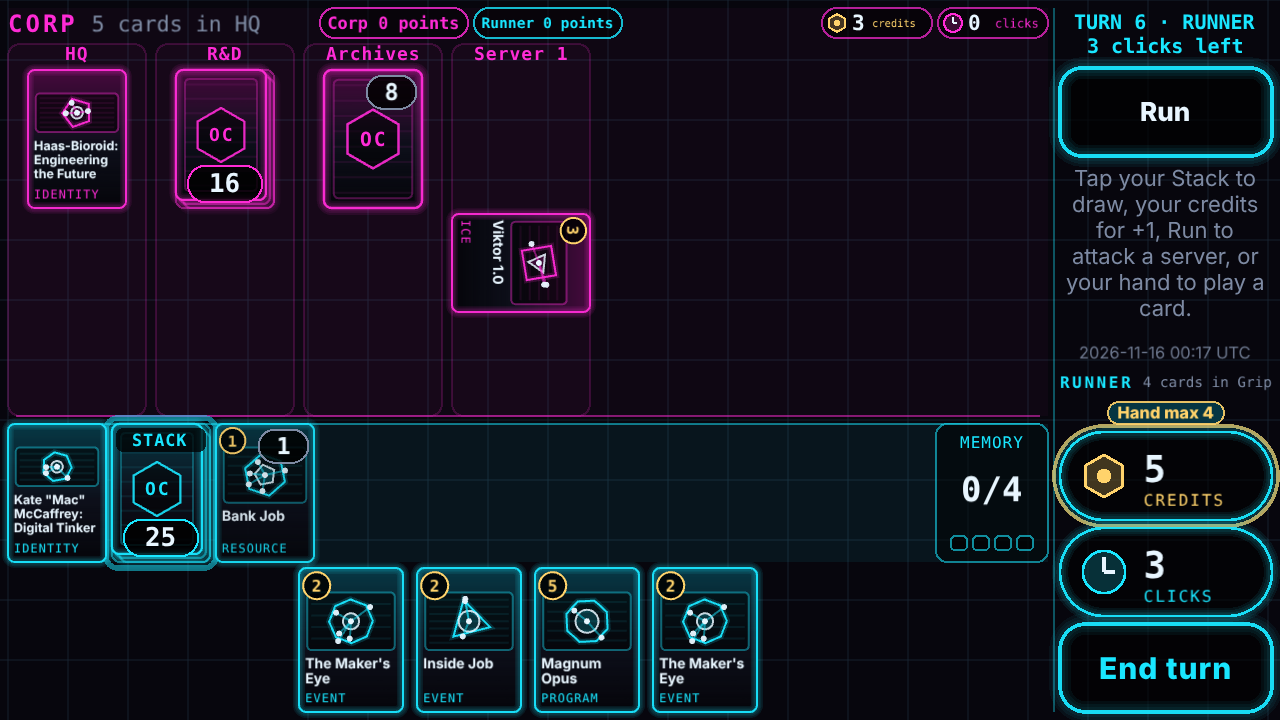
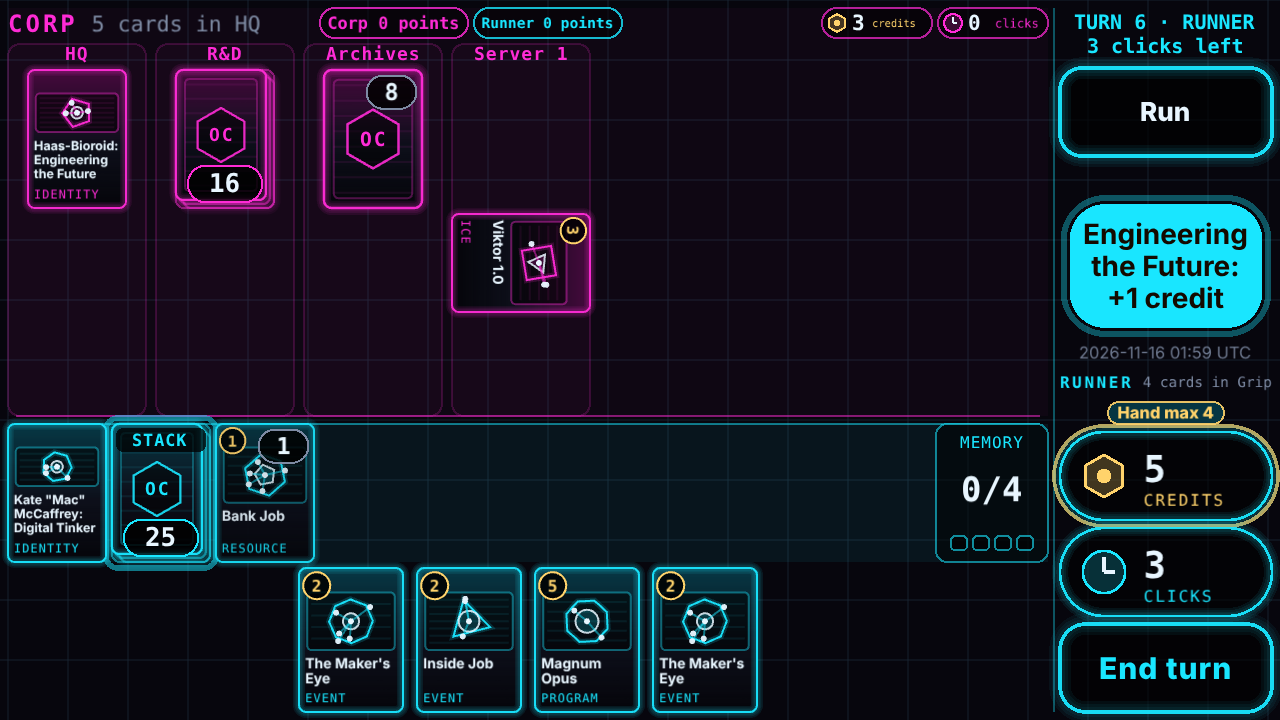
QA-S8-2/QA-S8-3 (client): 'Break all: 4 + 3 = 7 credits' in the run panel; run toasts use End turn's slot sideways (never over the run panel)
- Run panel line from RunView.breakAll (no client price math); sideways the
  panel also takes the build date's line during a run.
- Sideways during a run End turn (never usable) is hidden; toasts sit in its
  slot; a toast showing when a run starts/ends moves.
- Specs: s08-cards (Heimdall/Corroder total, Pipeline total, panel font
  floors, no toast over panel), s03-encounter and QA's qa-sprint03 exact
  lines include the total (logged in DECISIONS).

Claude-Session: https://claude.ai/code/session_01H2afAUPhzKLxcFBqH6rixf

Changed region(s): [[0.8125, 0.2444, 1.0, 0.4889]]

diff --git a/apps/client/src/board.ts b/apps/client/src/board.ts
@@ -294,7 +294,7 @@ export class Board {
   private runPicking = false;
   /** Installed card picked for its choices (Corp agenda: Advance / Score). */
   private pickedInstalled: string | null = null;
-  private hint: { text: string; root: Container; box: Box } | null = null;
+  private hint: { text: string; root: Container; box: Box; kind: 'hint' | 'notice'; slot: string } | null = null;
   private zoom: {
     cardId: string | null;
     root: Container;
@@ -1583,6 +1583,8 @@ export class Board {
     help.position.set(hb.x + hb.width / 2, hb.y);
     fitText(help, hb.width, hb.height);
     this.syncHelp();
+    // QA-S8-3: a toast shown before a run started (or ended) moves to the slot for now.
+    if (this.hint && this.hint.slot !== JSON.stringify(this.hintSlot(layout))) this.showHint(this.hint.text, this.hint.kind);
 
     const button = gen.button;
     if (view.result) {
@@ -1590,6 +1592,10 @@ export class Board {
     } else if (pending > 0) {
       button.root.visible = true;
       button.set('confirm', this.marked.size === pending, this.marked.size === pending, this.ui);
+    } else if (this.runNoticeSlot(layout, view)) {
+      // QA-S8-3: sideways, during a run End turn can't be used; its slot shows the run's notes
+      // (so they never cover the run panel in the rail).
+      button.root.visible = false;
     } else {
       const canEnd = view.legalActions.some((a) => a.type === 'end_turn');
       button.root.visible = true;
@@ -2585,7 +2591,7 @@ export class Board {
     const layout = this.layout;
     if (!layout) return;
     const s = Math.min(layout.scale, 1.2);
-    const area = layout.hintArea;
+    const area = this.hintSlot(layout);
     const root = new Container();
     const padX = Math.max(6, Math.round(8 * s));
     const padY = Math.max(5, Math.round(6 * s));
@@ -2615,7 +2621,7 @@ export class Board {
     // The slot is sized so hints wrap at full size; shrink only if one ever does not fit.
     const fit = Math.min(1, (area.width - 2 * ring) / w, (area.height - 2 * ring) / h);
     root.scale.set(fit);
-    const hint = { text, root, box: { x: 0, y: 0, width: w * fit, height: h * fit } };
+    const hint = { text, root, box: { x: 0, y: 0, width: w * fit, height: h * fit }, kind, slot: JSON.stringify(area) };
     this.positionHint(hint);
     root.alpha = 0;
     this.hintLayer.addChild(root);
@@ -2653,7 +2659,8 @@ export class Board {
     const help = this.gen?.subHelp;
     if (help) help.renderable = !(this.hint && this.layout?.mode === 'landscape');
     // In the column the build date shares the hint's slot: hide it while a hint shows.
-    this.buildText.visible = !(this.hint && this.layout?.mode === 'portrait');
+    // Sideways during a run, the run panel uses the build date's line (QA-S8-2).
+    this.buildText.visible = !(this.hint && this.layout?.mode === 'portrait') && !(this.layout?.mode === 'landscape' && this.view?.run);
   }
 
   /** Where the build date's text is drawn (CSS px). */
@@ -2665,6 +2672,8 @@ export class Board {
   /** The build date: the date and time centered in the narrow rail (sideways), "Built …" in the column's hint slot. */
   private placeBuildLabel(layout: BoardLayout): void {
     const t = this.buildText;
+    // QA-S8-2: sideways, the run panel uses the build date's line while a run is on.
+    t.visible = !(layout.mode === 'landscape' && this.view?.run);
     const when = this.callbacks.buildTime;
     const rail = layout.mode === 'landscape';
     const text = rail ? when : `Built ${when}`;
@@ -2676,12 +2685,24 @@ export class Board {
     t.position.set(rail ? b.x + b.width / 2 : b.x, b.y + b.height / 2);
   }
 
+  /** QA-S8-3: sideways during a run, the End turn slot (End turn is hidden then); else null. */
+  private runNoticeSlot(layout: BoardLayout, view: PlayerView | null): Box | null {
+    return layout.mode === 'landscape' && view?.run && !view.result ? layout.endTurn : null;
+  }
+
+  /** Where the toast goes: the hint slot, or (sideways, during a run) End turn's slot, clear of the run panel. */
+  private hintSlot(layout: BoardLayout): Box {
+    return this.runNoticeSlot(layout, this.view) ?? layout.hintArea;
+  }
+
   private positionHint(hint: { root: Container; box: Box }): void {
-    const a = this.layout?.hintArea;
-    if (!a) return;
+    const layout = this.layout;
+    if (!layout) return;
+    const a = this.hintSlot(layout);
+    const run = this.runNoticeSlot(layout, this.view) !== null;
     const cx = a.x + a.width / 2;
     // Sideways the slot is tall (the help text's room): sit at its bottom, by the viewer's name.
-    const cy = this.layout?.mode === 'landscape' ? a.y + a.height - 3 - hint.box.height / 2 : a.y + a.height / 2;
+    const cy = layout.mode === 'landscape' && !run ? a.y + a.height - 3 - hint.box.height / 2 : a.y + a.height / 2;
     hint.root.position.set(cx, cy);
     hint.box.x = cx - hint.box.width / 2;
     hint.box.y = cy - hint.box.height / 2;

diff --git a/apps/client/e2e/s08-cards.spec.ts b/apps/client/e2e/s08-cards.spec.ts
@@ -11,6 +11,7 @@ import { type Page, expect, test } from '@playwright/test';
 import type { InstalledSnapshot, LayoutSnapshot } from '../src/hook-types';
 import {
   dismissReport,
+  overlaps,
   expectCleanLayout,
   getView,
   layout,
@@ -217,7 +218,7 @@ test.describe('S-08-4 new breakers and events', () => {
     expect(JSON.stringify(await getView(page))).toBe(before);
   });
 
-  test('Heimdall with Corroder: it pumps and breaks one subroutine at a time', async ({ page }) => {
+  test('Heimdall with Corroder: it pumps and breaks one subroutine at a time; the panel shows the total', async ({ page }) => {
     await core(page);
     await toStep(page, SEED, 'heimdall_corroder_encounter');
     const l = await layout(page);
@@ -225,6 +226,14 @@ test.describe('S-08-4 new breakers and events', () => {
     expect(l.run!.buttons.some((b) => b.role === 'multi')).toBe(false);
     expect(runButtonOf(l, /\+\d strength/).label).toMatch(/credit/);
     expectBigButtons(l);
+    // QA-S8-2 (S-08-3 AC3): the panel adds the price up: +4 strength and 3 breaks = 7 credits.
+    expect(l.run!.lines).toContain('Break all: 4 + 3 = 7 credits');
+    // Still readable with the extra line (3 subroutines; the panel also takes the build date's line during a run).
+    const floor: Record<string, number> = { desktop: 12, phone: 10, 'phone-small': 8 };
+    expect(l.run!.infoFontPx).toBeGreaterThanOrEqual(floor[test.info().project.name] ?? 10);
+    // QA-S8-3: no toast over the run panel.
+    if (l.hint) expect(overlaps(l.hint.box, l.run!.infoBox), 'toast over the run panel').toBe(false);
+    await shot(page, 's08-3-heimdall-corroder-break-all-7');
   });
 
   test('Pipeline on Neural Katana: pump and break', async ({ page }) => {
@@ -232,6 +241,8 @@ test.describe('S-08-4 new breakers and events', () => {
     await toStep(page, SEED, 'pipeline_katana_encounter');
     let l = await layout(page);
     expect(l.run!.stepLabel).toBe('Encounter: Neural Katana');
+    // The total comes from the engine's plan (Pipeline: 2 + 2 to reach 3, then 1).
+    expect(l.run!.lines).toContain('Break all: 4 + 1 = 5 credits');
     for (let i = 0; i < 6; i++) {
       const brk = l.run!.buttons.find((b) => /Break "/.test(b.label));
       if (brk?.lit) break;

diff --git a/apps/client/test/s08-text.test.ts b/apps/client/test/s08-text.test.ts
@@ -3,7 +3,7 @@
 import type { CardOption, ChoiceView, GameEvent } from '@overclock/engine';
 import { describe, expect, it } from 'vitest';
 import { choiceHint } from '../src/hints';
-import { choiceOptionLabel, choiceStepLabel, iceReport, installNotices, isRunChoice, letFireLabel, outcomeText, shortName, turnStartNotices } from '../src/runText';
+import { breakAllLines, choiceOptionLabel, choiceStepLabel, iceReport, installNotices, isRunChoice, letFireLabel, outcomeText, shortName, turnStartNotices } from '../src/runText';
 import { handMaxText } from '../src/terms';
 
 const opt = (action: CardOption['action'], cost = 0, reject: CardOption['reject'] = null): CardOption => ({ action, cost, reject });
@@ -96,3 +96,23 @@ describe('S-08-7 Rototurret', () => {
   });
 });
 
+describe('QA-S8-2 break-all price', () => {
+  const base = { server: 'hq', position: 0, step: 'encounter', waitingOn: 'runner', iceUid: 'i2', ice: null, breakerStrength: {}, access: null, extraAccess: 0, bypassPending: false, options: [], tempCredits: 0, letFire: null } as const;
+  it('one breaker: the sum written out; none: nothing; several: one named line each', () => {
+    expect(breakAllLines({ ...base, breakAll: [{ uid: 'i1', credits: 7, strengthCredits: 4, breakCredits: 3 }] }, { i1: 'r04' })).toEqual(['Break all: 4 + 3 = 7 credits']);
+    expect(breakAllLines({ ...base, breakAll: [{ uid: 'i1', credits: 1, strengthCredits: 0, breakCredits: 1 }] }, { i1: 'r04' })).toEqual(['Break all: 1 credit']);
+    expect(breakAllLines({ ...base, breakAll: [] }, {})).toEqual([]);
+    expect(
+      breakAllLines(
+        {
+          ...base,
+          breakAll: [
+            { uid: 'i1', credits: 7, strengthCredits: 4, breakCredits: 3 },
+            { uid: 'i3', credits: 7, strengthCredits: 3, breakCredits: 4 },
+          ],
+        },
+        { i1: 'r04', i3: 'r17' },
+      ),
+    ).toEqual(['Corroder, all: 4 + 3 = 7 credits', 'Battering Ram, all: 3 + 4 = 7 credits']);
+  });
+});

diff --git a/apps/client/src/runText.ts b/apps/client/src/runText.ts
@@ -177,6 +177,19 @@ export function stepLabel(run: RunView, deciding: Side): string {
   }
 }
 
+/**
+ * QA-S8-2: the whole price of breaking the ICE, from the engine's `breakAll`: "Break all:
+ * 4 + 3 = 7 credits" (strength first, then the breaks). Several breakers: one line each, named.
+ * Nothing when no breaker can break it all with the credits there are.
+ */
+export function breakAllLines(run: RunView, rig: RigIds): string[] {
+  const all = run.breakAll ?? [];
+  // One short line each, the sum written out: "Break all: 4 + 3 = 7 credits".
+  const sum = (b: (typeof all)[number]) => (b.strengthCredits > 0 ? `${b.strengthCredits} + ${b.breakCredits} = ${plural(b.credits, 'credit', 'credits')}` : plural(b.credits, 'credit', 'credits'));
+  if (all.length === 1) return [`Break all: ${sum(all[0]!)}`];
+  return all.map((b) => `${nameOf(rig[b.uid] ?? null, 'Breaker')}, all: ${sum(b)}`);
+}
+
 /** Info lines under the step line: ICE strength, the breakers that can act and their strength, the next stop. */
 export function infoLines(run: RunView, rig: RigIds): string[] {
   const lines: string[] = [];
@@ -189,6 +202,7 @@ export function infoLines(run: RunView, rig: RigIds): string[] {
       if (s !== undefined) lines.push(`${nameOf(rig[uid] ?? null, 'Breaker')} ${s}`);
     }
     if (run.options.length > 0 && breakersIn(run.options).length === 0) lines.push('No breaker for this ICE');
+    lines.push(...breakAllLines(run, rig));
   }
   if (run.step === 'continue') lines.push(run.position > 0 ? `Next: ${run.position} more ${TERMS.ice}` : `Next: ${serverLabel(run.server)}`);
   if (run.bypassPending && run.step !== 'access') lines.push('Inside Job: next ICE bypassed');

diff --git a/apps/client/e2e/s03-encounter.spec.ts b/apps/client/e2e/s03-encounter.spec.ts
@@ -14,7 +14,7 @@ test.describe('S-03-4 break ICE with icebreakers', () => {
     const l = await layout(page);
     expect(l.run).toMatchObject({ step: 'encounter', deciding: 'runner', stepLabel: 'Encounter: Wall of Static' });
     // ICE strength vs the breaker's, and the subroutine list.
-    expect(l.run!.lines).toEqual(['Strength 3', 'Corroder 2']);
+    expect(l.run!.lines).toEqual(['Strength 3', 'Corroder 2', 'Break all: 1 + 1 = 2 credits']);
     expect(l.run!.subroutines).toEqual([{ text: 'End the run', broken: false }]);
     expect(l.run!.buttons.map((b) => [b.label, b.lit, b.reject])).toEqual([
       [BREAK, false, 'too_weak'],
@@ -44,7 +44,7 @@ test.describe('S-03-4 break ICE with icebreakers', () => {
     expect(m.events.map((e) => e.type)).toEqual(['credits_spent', 'strength_changed']);
     expectSnappy(m, ['strength_pop', 'credit_pop']);
     let l = await waitIdle(page);
-    expect(l.run!.lines).toEqual(['Strength 3', 'Corroder 3']);
+    expect(l.run!.lines).toEqual(['Strength 3', 'Corroder 3', 'Break all: 1 credit']);
     expect(runButtonOf(l, BREAK)).toMatchObject({ lit: true, reject: null });
     m = await measureTap(page, runButtonOf(l, BREAK).box);
     expect(m.events.map((e) => e.type)).toEqual(expect.arrayContaining(['credits_spent', 'subroutine_broken', 'ice_passed']));

diff --git a/apps/client/e2e/qa-sprint03.spec.ts b/apps/client/e2e/qa-sprint03.spec.ts
@@ -192,7 +192,7 @@ test.describe('QA S-03-4: the most crowded encounter', () => {
     await tap(page, runButtonOf(l, /^Rez Enigma/).box);
     l = await waitIdle(page);
     expect(l.run).toMatchObject({ step: 'encounter', deciding: 'runner', stepLabel: 'Encounter: Enigma' });
-    expect(l.run!.lines).toEqual(['Strength 2', 'Gordian Blade 2']);
+    expect(l.run!.lines).toEqual(['Strength 2', 'Gordian Blade 2', 'Break all: 2 credits']); // + QA-S8-2's total (Sprint 8)
     expect(l.run!.buttons.map((b) => [b.label, b.lit])).toEqual([
       ['Break "The Runner loses 1 click, if able" · 1 credit', true],
       ['Break "End the run" · 1 credit', true],

diff --git a/apps/client/src/layout.ts b/apps/client/src/layout.ts
@@ -542,7 +542,8 @@ function landscapeLayout(vw: number, vh: number, insets: Insets, safe: Box, view
     hintArea,
     endTurn,
     action2,
-    runInfo: sub,
+    // QA-S8-2: during a run the build date is hidden and the info panel takes its line too.
+    runInfo: box(railX, subY, railW, Math.max(0, railLabel.y - rg - subY)),
     runButtons: handArea,
     access,
     scores: { corp: scoreCorp, runner: scoreRunner },

diff --git a/docs/DECISIONS.md b/docs/DECISIONS.md
@@ -268,3 +268,6 @@ Format: `YYYY-MM-DD — decision — why — alternatives considered — who`
 - 2026-11-16 — Sprint 8 P1 data guard (architect review): Corp `whenYouInstall` / `installDiscount` may only filter on ICE (or any type) — a Corp trigger or discount limited to e.g. agendas would fire, or change a price, only for that type and tell the Runner what a face-down card is. Data test in `packages/cards/test/sprint08-decks.test.ts` — alternative: an engine check at load (no card needs it yet) — architect
 - 2026-11-16 — Online stall on an away Corp's Rototurret `trash_target` choice accepted for Sprint 8 (same as the existing approach rez window: the Runner sees "Waiting for the other player to come back…"); backlogged with an auto-answer after a timeout as the likely fix. `RULES_VERSION = 2` expires live online games on deploy: expected, demo notes should say so — architect
 - 2026-11-16 — QA-S8-1 fix: a refused click ability says "Needs N clicks" when its option costs more than one click and some are left ("No clicks left" only at 0), from the option's `clicks` and the view's click count (no client rules). QA-owned edit: removed only the `test.fail` marker from `e2e/qa-sprint08.spec.ts` "QA-S8-1", as QA's report asks; the test now passes — ui-dev
+- 2026-11-16 — QA-S8-2 fix: the "break all" total (Heimdall vs Corroder: "Break all: 4 + 3 = 7 credits") comes from a new engine view field `RunView.breakAll` (per breaker: total, strength part, break part), computed like `letFire` by playing the breaker's own offered options on throw-away states — the client does no strength or price math. One line in the run panel; sideways, during a run the panel also takes the build date's line (hidden then). With a 3-subroutine ICE the 640x360 panel text is ~8.3 px (was ~9.0 before the line) — ui-dev (engine field: architect to confirm)
+- 2026-11-16 — QA-S8-3 fix: sideways, during a run End turn (never usable then) is hidden and its slot shows the run's toasts, so they never cover the run panel in the rail; a toast already showing when a run starts or ends moves to the new slot — ui-dev
+- 2026-11-16 — QA-owned edit for QA-S8-2: `e2e/qa-sprint03.spec.ts` "Enigma vs Gordian Blade" lists the run panel lines exactly; it now also expects the new "Break all: 2 credits" line (nothing else changed) — ui-dev
